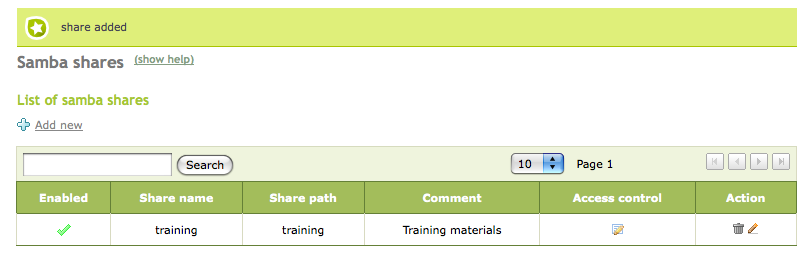
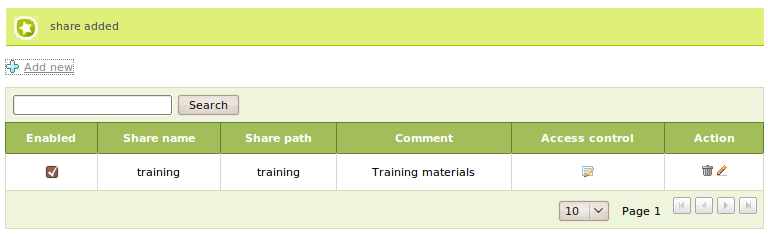
NN: Updating images for VPN and File Sharing images refs #1687
git-svn-id: http://svn.zentyal.org/zentyal/trunk@16233 866bc4c1-54da-0310-a958-9d5a9a0e8d04

diff --git a/docs/en/user/filesharing.rst b/docs/en/user/filesharing.rst
@@ -81,8 +81,6 @@ have a shared directory for all its users.
 The personal directory for the user is automatically shared and can only be
 accessed  by the user.
 
-.. FIXME: Show only the directory to share
-
 .. image:: images/filesharing/10-share-group.png
    :scale: 80
 
@@ -92,8 +90,6 @@ access to this directory, being able to read and write all the files.
 
 .. image:: images/filesharing/06-sharing.png
    :scale: 80
-
-.. FIXME: Update the shot
 
 Go to :menuselection:`File Sharing --> General Settings` to configure
 the general settings of file sharing service. :guilabel:`Domain` will
@@ -127,8 +123,6 @@ Share path:
 Comment:
   A more detailed description of the share can be provided in
   this field.
-
-.. FIXME: Update the shot
 
 .. image:: images/filesharing/08-shares.png
    :scale: 80
@@ -240,8 +234,6 @@ eBox as an authentication server
 You have to go to :menuselection:`File Sharing --> General Settings`
 and check the :guilabel:`Enable PDC` option in order to have eBox
 working as an authentication server (PDC).
-
-.. FIXME: Update the shot
 
 .. image:: images/filesharing/06-pdc-enabled.png
    :scale: 80

diff --git a/docs/en/user/vpn.rst b/docs/en/user/vpn.rst
@@ -389,8 +389,6 @@ virtual interface.
 The current users connected to the VPN service are displayed in eBox
 :guilabel:`Dashobard`.
 
-.. FIXME: VPN dashboard image
-
 .. _vpn-example-b-ref:
 
 Practical example B
